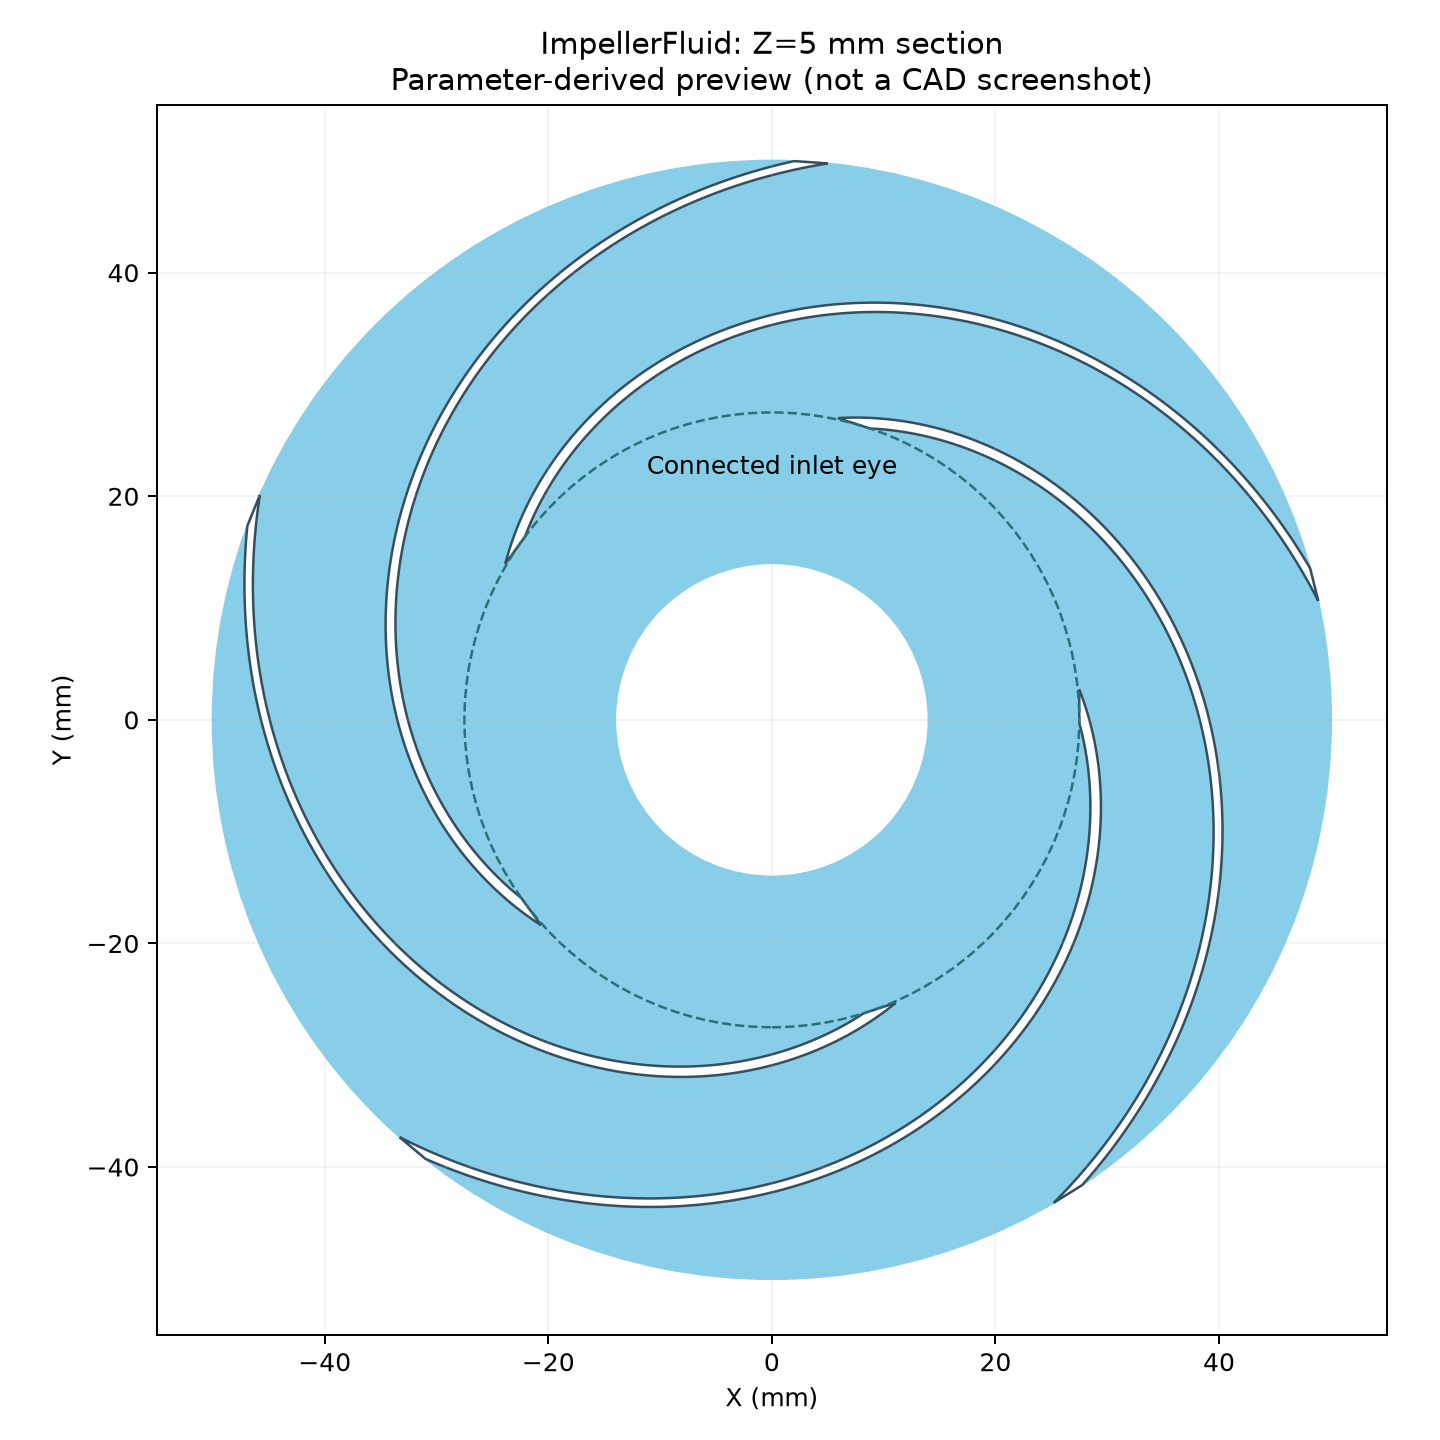
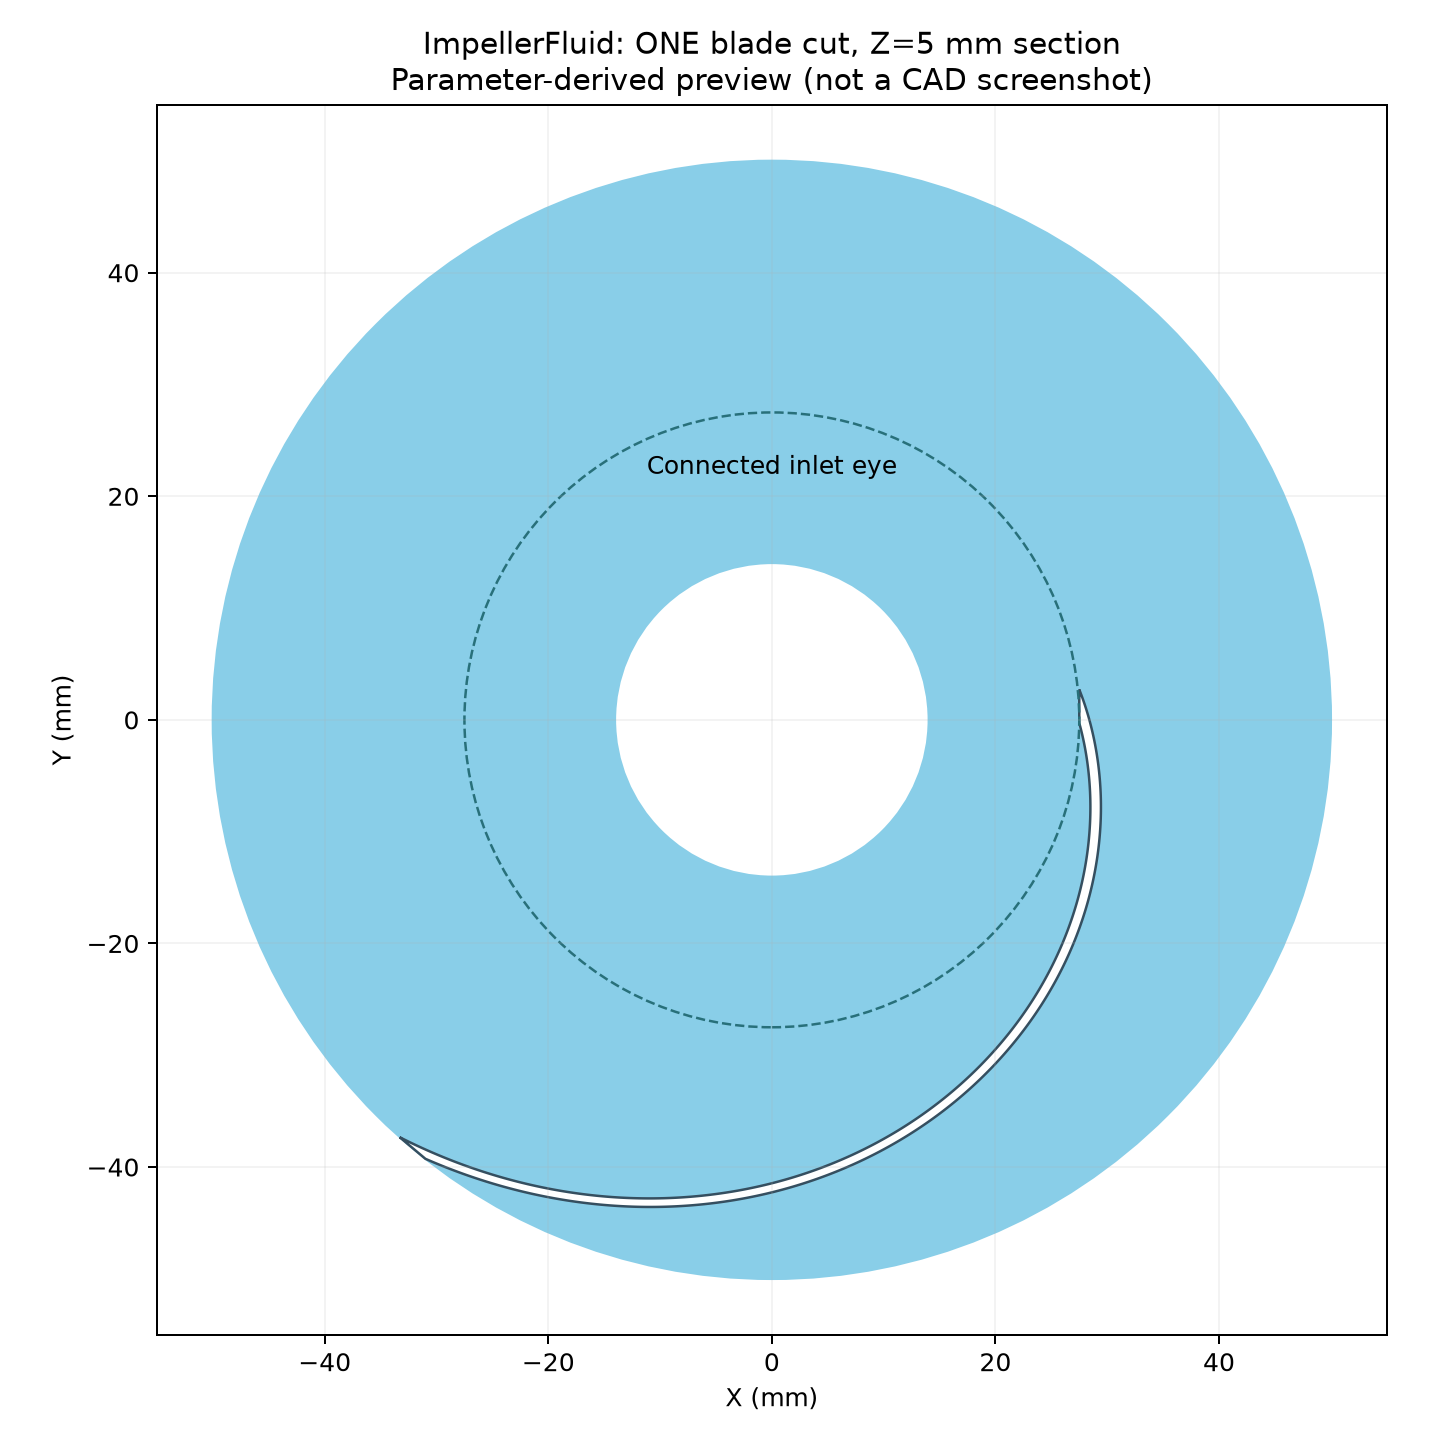
Build a single blade cut before attempting circular pattern

diff --git a/pump_impeller.py b/pump_impeller.py
@@ -1,18 +1,18 @@
-"""五个后弯空间叶片扣除后的叶轮流体域；长度 mm，角度 deg。
+"""当前阶段：仅扣除一个后弯空间叶片的叶轮流体域；长度 mm，角度 deg。
 
 python pump_impeller.py
 python pump_impeller.py --host HOST --port 50051
 python pump_impeller.py --preview-only
 
 复用 pump_meridional 的 connect/build_and_check，不建立其他泵腔。
-24.1 的放样、复制旋转和连通性检查通过 run_script_file 调用原生内核，
+不执行圆周阵列或叶片间干涉检查，先检查一个叶片的造型和扣除结果。
+24.1 的放样和连通性检查通过 run_script_file 调用原生内核，
 不使用要求 24R2 的 PyAnsys loft/rotate/get_collision 接口。
 预览是根据截面参数计算的 Z=5 mm 剖面示意，不冒充已运行的 CAD 截图。
 """
 
 import argparse
 from dataclasses import dataclass
-from inspect import getsource
 from math import cos, hypot, isfinite, log, radians, sin, sqrt, tan
 import os
 from pathlib import Path
@@ -20,12 +20,11 @@ from pathlib import Path
 from pump_meridional import Parameters as BlankParameters
 from pump_meridional import build_and_check as build_blank, connect
 from spaceclaim_diagnostics import run_checked_script
-from blade_interference import overlap_from_losses
 
 
 @dataclass(frozen=True)
 class Parameters:
-    blade_count: int = 5
+    blade_count: int = 1  # 当前阶段固定单叶片；后续再恢复圆周阵列
     inlet_radius: float = 27.5
     outlet_radius: float = 50.0
     wrap_degrees: float = 130.0
@@ -37,17 +36,16 @@ class Parameters:
     inlet_cap_clearance: float = 0.05  # 牺牲端面完全位于保护圆柱内的余量
     preview_z: float = 5.0
     volume_tolerance_mm3: float = 1e-3
-    rotation_tolerance_mm: float = 1e-4
 
     def validate(self, blank):
         blank.validate()
-        if not isinstance(self.blade_count, int) or self.blade_count < 2:
-            raise ValueError("blade_count 必须为至少 2 的整数")
+        if type(self.blade_count) is not int or self.blade_count != 1:
+            raise ValueError("当前阶段仅支持一个叶片，尚不执行圆周阵列")
         if not isinstance(self.section_count, int) or self.section_count < 3:
             raise ValueError("section_count 必须为至少 3 的整数")
         values = (self.inlet_radius, self.outlet_radius, self.wrap_degrees,
                   self.tangential_thickness, self.axial_overcut, self.volume_tolerance_mm3,
-                  self.inlet_leadin, self.inlet_cap_clearance, self.rotation_tolerance_mm)
+                  self.inlet_leadin, self.inlet_cap_clearance)
         if any(not isfinite(v) or v <= 0 for v in values):
             raise ValueError("半径、包角、厚度、超切量和体积容差须为有限正数")
         if not isfinite(self.inlet_twist_degrees) or abs(self.inlet_twist_degrees) >= 45:
@@ -136,14 +134,9 @@ def native_script(p, blank):
     sections, angles = loft_sections(p, blank)
     return '''# Python Script, API Version = V241
 from System.Collections.Generic import List, ICollection
-%s
 stage = "read_blank"
 sections = %r
 angles = %r
-blade_count = %r
-eye_radius = %r
-eye_height = %r
-rotation_tolerance = %r
 volume_tolerance = %r * 1e-9
 root = GetRootPart()
 if root.Bodies.Count != 2:
@@ -188,61 +181,11 @@ eye_tools.Add(eye)
 first.Subtract(eye_tools)
 tools = List[KernelBody]()
 tools.Add(first)
-stage = "copy_rotate_blades"
-source_vertices = [vertex.Position for vertex in first.Vertices]
-for i in range(1, blade_count):
-    angle = i*360.0/blade_count
-    copy = first.Copy()
-    copy.Transform(Matrix.CreateRotation(Line.Create(Point.Origin, Direction.DirZ),
-                                        DEG(angle)))
-    # Verify actual vertex placement rather than assuming Transform was applied.
-    c, s = math.cos(math.radians(angle)), math.sin(math.radians(angle))
-    expected_vertices = [(v.X*c-v.Y*s, v.X*s+v.Y*c, v.Z) for v in source_vertices]
-    actual_vertices = [vertex.Position for vertex in copy.Vertices]
-    if len(actual_vertices) != len(expected_vertices):
-        raise Exception("Rotated copy has an unexpected vertex count")
-    for x,y,z in expected_vertices:
-        if min((v.X-x)**2+(v.Y-y)**2+(v.Z-z)**2 for v in actual_vertices) > rotation_tolerance**2:
-            raise Exception("Blade rotation mismatch: index=%%s angle=%%s" %% (i,angle))
-    tools.Add(copy)
-for tool in tools:
-    if not tool.IsClosed or tool.PieceCount != 1 or tool.Volume <= 0:
-        raise Exception("Blade tool is not a connected solid")
-def remaining_volume(left, right):
-    target = left.Copy()
-    cutters = List[KernelBody]()
-    cutters.Add(right.Copy())
-    target.Subtract(cutters)
-    return target.Volume if target.Faces.Count > 0 else 0.0
-
-# Validate this kernel's difference semantics using cylinders, before trusting
-# pair checks. Avoid interpreting a non-empty receiver after an empty Intersect.
-stage = "calibrate_interference_check"
-reference = eye_body.Shape
-reference_volume = reference.Volume
-for shift, expected_fraction in ((2.0, 1.0), (0.5, 0.5)):
-    moved = reference.Copy()
-    moved.Transform(Matrix.CreateTranslation(Vector.Create(0, 0, MM(eye_height*shift))))
-    remaining = remaining_volume(reference, moved)
-    if abs(remaining-reference_volume*expected_fraction) > volume_tolerance:
-        raise Exception("Difference calibration failed: shift=%%s remaining=%%s" %% (shift,remaining))
-
-# Check all ten pairs on transient copies, never consuming the actual tools.
-pair_diagnostics = []
-for i in range(blade_count):
-    for j in range(i+1, blade_count):
-        stage = "blade_intersection_%%s_%%s" %% (i,j)
-        va, vb = tools[i].Volume, tools[j].Volume
-        ra = remaining_volume(tools[i],tools[j])
-        rb = remaining_volume(tools[j],tools[i])
-        overlap = overlap_from_losses(va,vb,ra,rb,volume_tolerance)
-        pair_diagnostics.append({"pair": (i,j), "a_mm3": va*1e9, "b_mm3": vb*1e9,
-                                 "loss_a_mm3": (va-ra)*1e9, "loss_b_mm3": (vb-rb)*1e9,
-                                 "overlap_mm3": overlap*1e9})
-        if overlap > volume_tolerance:
-            raise Exception("Blade tools intersect: %%s, %%s; overlap=%%.9g mm3; A=%%.9g B=%%.9g mm3"
-                            %% (i,j,overlap*1e9,va*1e9,vb*1e9))
-stage = "subtract_blades"
+stage = "check_single_blade"
+if not first.IsClosed or first.PieceCount != 1 or first.Volume <= 0:
+    raise Exception("Single blade tool is not a connected closed solid")
+blade_volume = first.Volume
+stage = "subtract_single_blade"
 blank.Shape.Subtract(tools)
 after = blank.Shape.Volume
 if not (0 < after < before-volume_tolerance):
@@ -257,16 +200,13 @@ eye_tools.Clear()
 eye_body.Delete()
 if root.Bodies.Count != 1:
     raise Exception("Unexpected residual bodies")
-result = {"pieces": "1", "pair_checks": str(blade_count*(blade_count-1)//2),
-          "pair_diagnostics": str(pair_diagnostics),
+result = {"pieces": "1", "blade_count": "1", "blade_mm3": str(blade_volume*1e9),
           "closed": "True", "before_mm3": str(before*1e9), "after_mm3": str(after*1e9)}
-''' % (getsource(overlap_from_losses), sections, angles, p.blade_count, p.inlet_radius,
-       blank.inlet_z-blank.hub_outlet_z+10*p.axial_overcut,
-       p.rotation_tolerance_mm*1e-3, p.volume_tolerance_mm3)
+''' % (sections, angles, p.volume_tolerance_mm3)
 
 
 def save_preview(p, blank, destination):
-    """参数计算剖面：蓝色流体、白色叶片扣除区域，可见五条叶道及连通眼。"""
+    """参数计算剖面：蓝色流体、白色单叶片扣除区域及连通眼。"""
     import matplotlib
     matplotlib.use("Agg")
     import matplotlib.pyplot as plt
@@ -294,7 +234,7 @@ def save_preview(p, blank, destination):
                             linestyle="--", edgecolor="#28707a", linewidth=1))
     ax.annotate("Connected inlet eye", (0, 22), ha="center", fontsize=10)
     ax.set(xlim=(-55,55), ylim=(-55,55), xlabel="X (mm)", ylabel="Y (mm)",
-           title=f"ImpellerFluid: Z={p.preview_z:g} mm section\nParameter-derived preview (not a CAD screenshot)")
+           title=f"ImpellerFluid: ONE blade cut, Z={p.preview_z:g} mm section\nParameter-derived preview (not a CAD screenshot)")
     ax.set_aspect("equal")
     ax.grid(alpha=0.15)
     fig.tight_layout()
@@ -324,15 +264,16 @@ def build_impeller(modeler, p, blank):
     create_eye_tool(design, p, blank)
     values, design = run_checked_script(modeler, native_script(p, blank), "impeller_blades")
     if (values.get("pieces") != "1" or values.get("closed") != "True"
-            or values.get("pair_checks") != str(p.blade_count*(p.blade_count-1)//2)):
-        raise RuntimeError(f"原生叶片/连通性检查未通过：{values}")
+            or values.get("blade_count") != "1"):
+        raise RuntimeError(f"原生单叶片/连通性检查未通过：{values}")
     bodies = design.get_all_bodies()
     if len(bodies) != 1 or bodies[0].is_surface or bodies[0].name != "ImpellerFluid":
         raise RuntimeError("最终必须只有一个 ImpellerFluid 实体，无残留工具体")
     after = bodies[0].volume.to("mm^3").magnitude
     if not isfinite(after) or not 0 < after < before-p.volume_tolerance_mm3:
         raise RuntimeError("布尔减后的流体体积未减小")
-    print(f"叶片两两检查通过；流体连通块=1；体积 {before:.6f} -> {after:.6f} mm³")
+    print(f"单叶片扣除完成；流体连通块=1；体积 {before:.6f} -> {after:.6f} mm³")
+    print(f"单叶片工具体积：{values.get('blade_mm3')} mm³")
     return design
 
 
@@ -341,7 +282,7 @@ def main():
     parser.add_argument("--host", default=os.getenv("ANSRV_GEO_HOST"))
     parser.add_argument("--port", type=int, default=int(os.getenv("ANSRV_GEO_PORT", "50051")))
     parser.add_argument("--output", type=Path,
-                        default=Path(__file__).resolve().with_name("pump_impeller.step"))
+                        default=Path(__file__).resolve().with_name("pump_impeller_single.step"))
     parser.add_argument("--preview", type=Path,
                         default=Path(__file__).resolve().with_name("pump_impeller_section.png"))
     parser.add_argument("--preview-only", action="store_true")

diff --git a/test_pump_impeller_geometry.py b/test_pump_impeller_geometry.py
@@ -1,14 +1,36 @@
 """入口相切布尔退化的离线几何回归；实际布尔仍须在 SpaceClaim 验证。"""
 
 from dataclasses import replace
+import ast
 from math import cos, hypot, sin
 import unittest
 
-from pump_impeller import Parameters, blade_sections, loft_sections
+from pump_impeller import Parameters, blade_sections, loft_sections, native_script
 from pump_meridional import Parameters as BlankParameters
 
 
 class InletLeadinTests(unittest.TestCase):
+    def test_current_stage_is_single_blade_only(self):
+        Parameters().validate(BlankParameters())
+        with self.assertRaises(ValueError):
+            replace(Parameters(), blade_count=5).validate(BlankParameters())
+
+    def test_native_single_blade_path_has_no_array_or_pair_check(self):
+        tree = ast.parse(native_script(Parameters(), BlankParameters()))
+        calls = [node.func.attr for node in ast.walk(tree)
+                 if isinstance(node, ast.Call) and isinstance(node.func, ast.Attribute)]
+        self.assertNotIn("Transform", calls)
+        self.assertNotIn("Intersect", calls)
+        names = {node.id for node in ast.walk(tree) if isinstance(node, ast.Name)}
+        self.assertNotIn("overlap_from_losses", names)
+        self.assertNotIn("pair_diagnostics", names)
+        # 唯一放入主减法工具集合的是 first（眼保护裁切使用另一集合）。
+        tools_add = [node for node in ast.walk(tree) if isinstance(node, ast.Call)
+                     and isinstance(node.func, ast.Attribute) and node.func.attr == "Add"
+                     and isinstance(node.func.value, ast.Name) and node.func.value.id == "tools"]
+        self.assertEqual(len(tools_add), 1)
+        self.assertEqual(tools_add[0].args[0].id, "first")
+
     def test_preserves_all_31_design_sections(self):
         p, blank = Parameters(), BlankParameters()
         design, angles = blade_sections(p, blank)

diff --git a/test_blade_interference.py b/test_blade_interference.py
@@ -1,6 +1,7 @@
 """体积检查及参数几何的独立回归；不替代实际内核检查。"""
 
 from math import atan2, degrees
+from dataclasses import replace
 import unittest
 
 import numpy as np
@@ -27,7 +28,8 @@ class OverlapTests(unittest.TestCase):
                 overlap_from_losses(*values)
 
     def test_nominal_twisted_sections_leave_clearance_at_72_degree_pitch(self):
-        p, blank = Parameters(), BlankParameters()
+        # 历史五叶片参数曲线检查；当前实际建模路径固定只切一个叶片。
+        p, blank = replace(Parameters(), blade_count=5), BlankParameters()
         minimum_clearance = 360.0/p.blade_count
         # 对各高度剖面的左右边界按真实圆柱半径对齐，独立于切向法平面距离。
         # 将曲线延拓到整个高度包络是保守检查（部分点在工具体外）。

diff --git a/SPACECLAIM_DIAGNOSTICS.md b/SPACECLAIM_DIAGNOSTICS.md
@@ -1,5 +1,11 @@
 # SpaceClaim 24.1 脚本诊断
 
+当前阶段按用户要求仅从毛坯扣除一个空间叶片，不执行圆周阵列、校准或
+叶片间干涉检查。默认输出 `pump_impeller_single.step`，预览
+`pump_impeller_section.png` 也只显示一个叶片扣除区域。保留入口眼保护、
+变高度/扭转放样、单叶片闭合检查、减后体积减小及最终单连通体检查。
+下面关于多叶片干涉校准的说明保留为历史记录，当前建模路径不调用它。
+
 运行方式不变：
 
 ```bat
